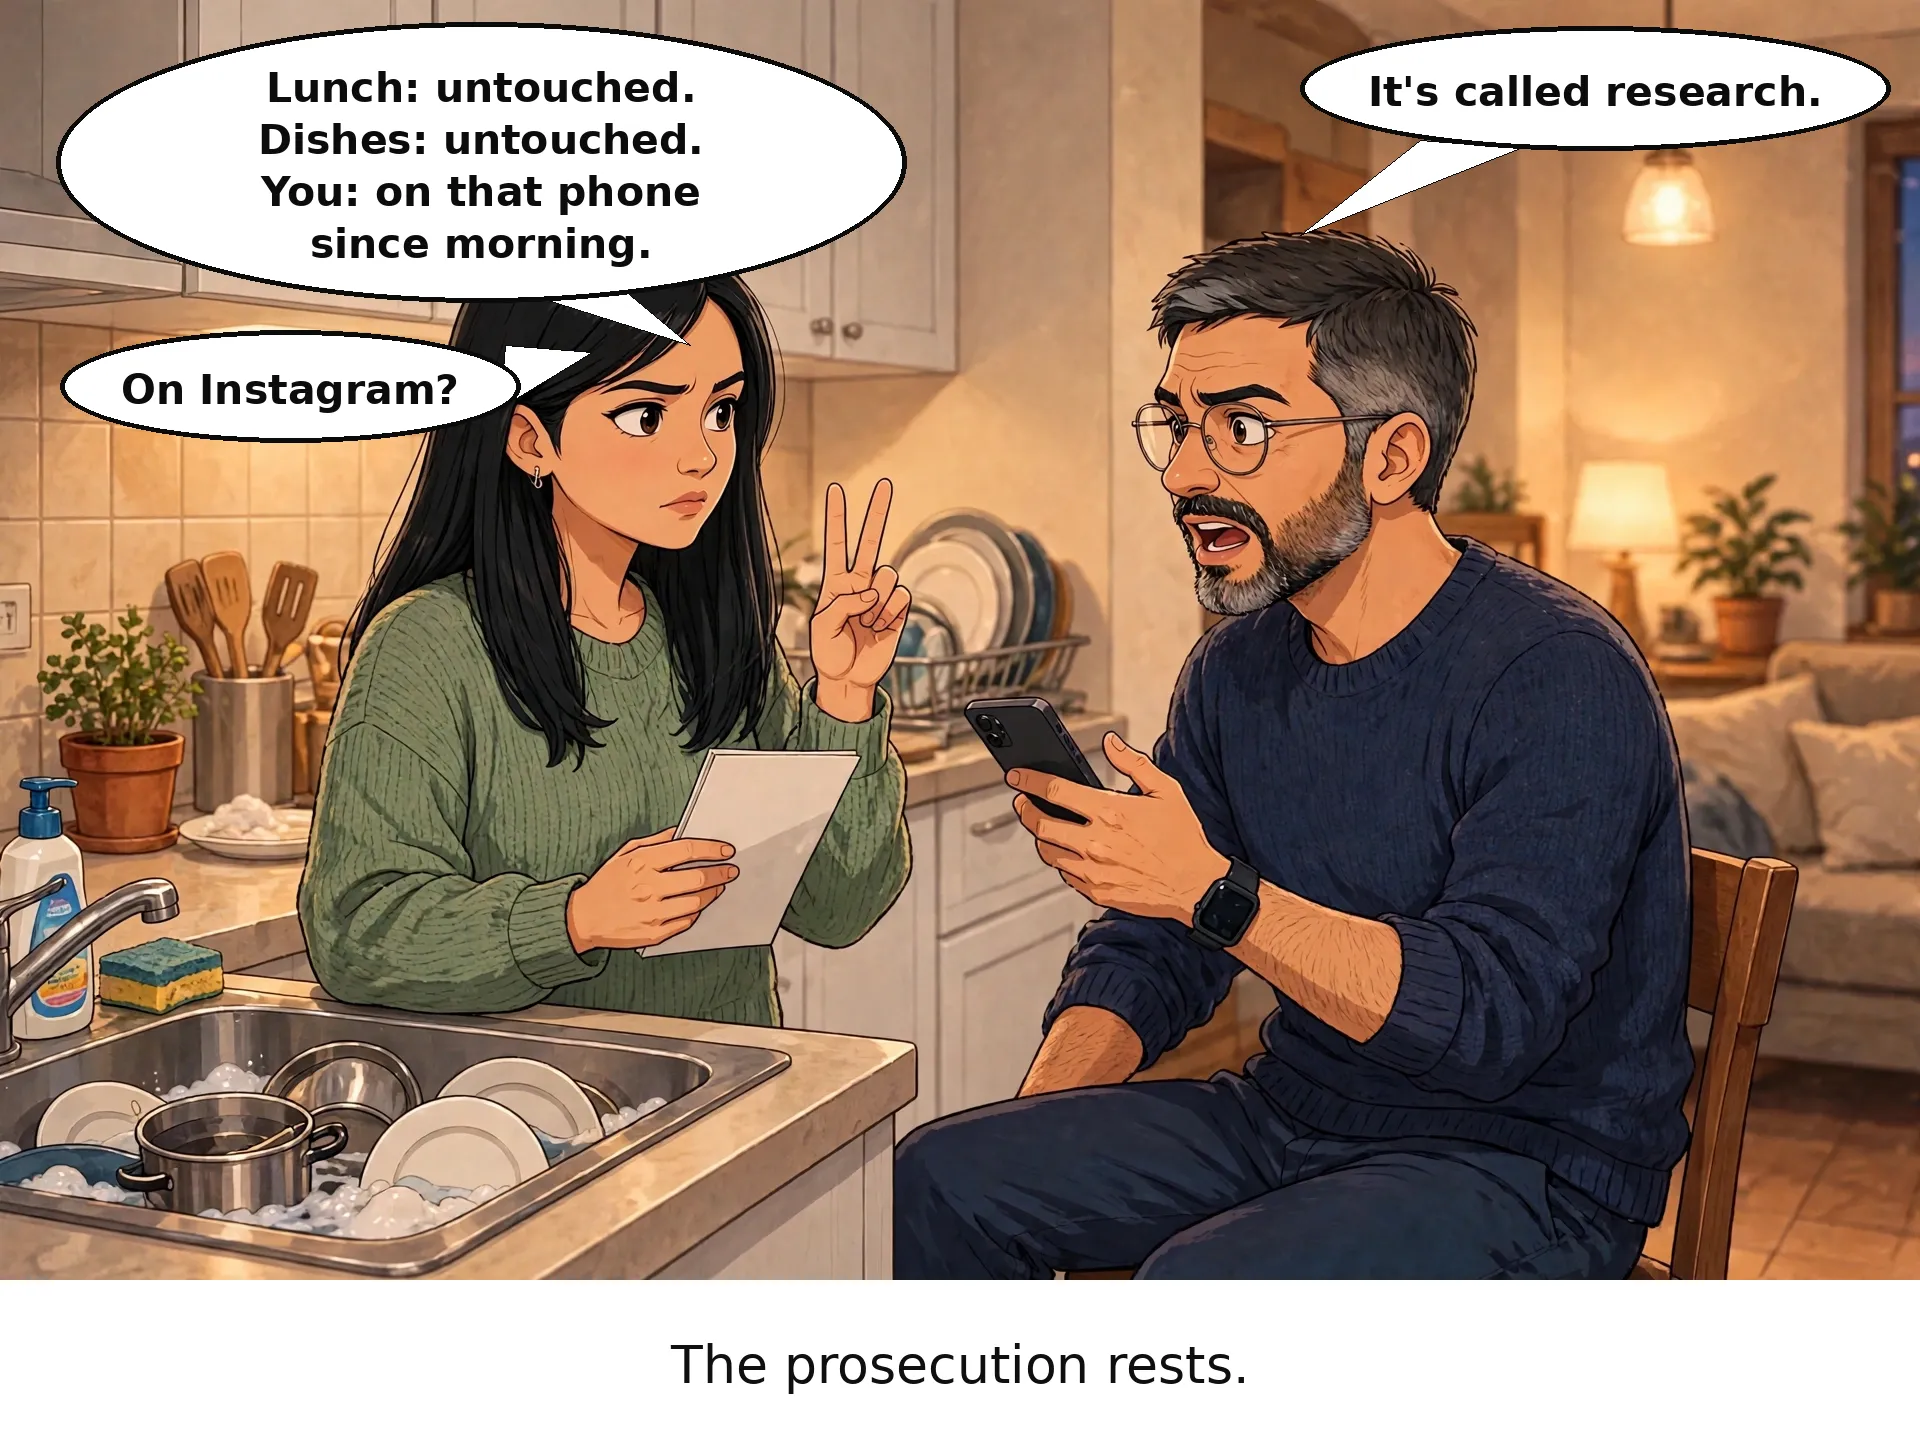
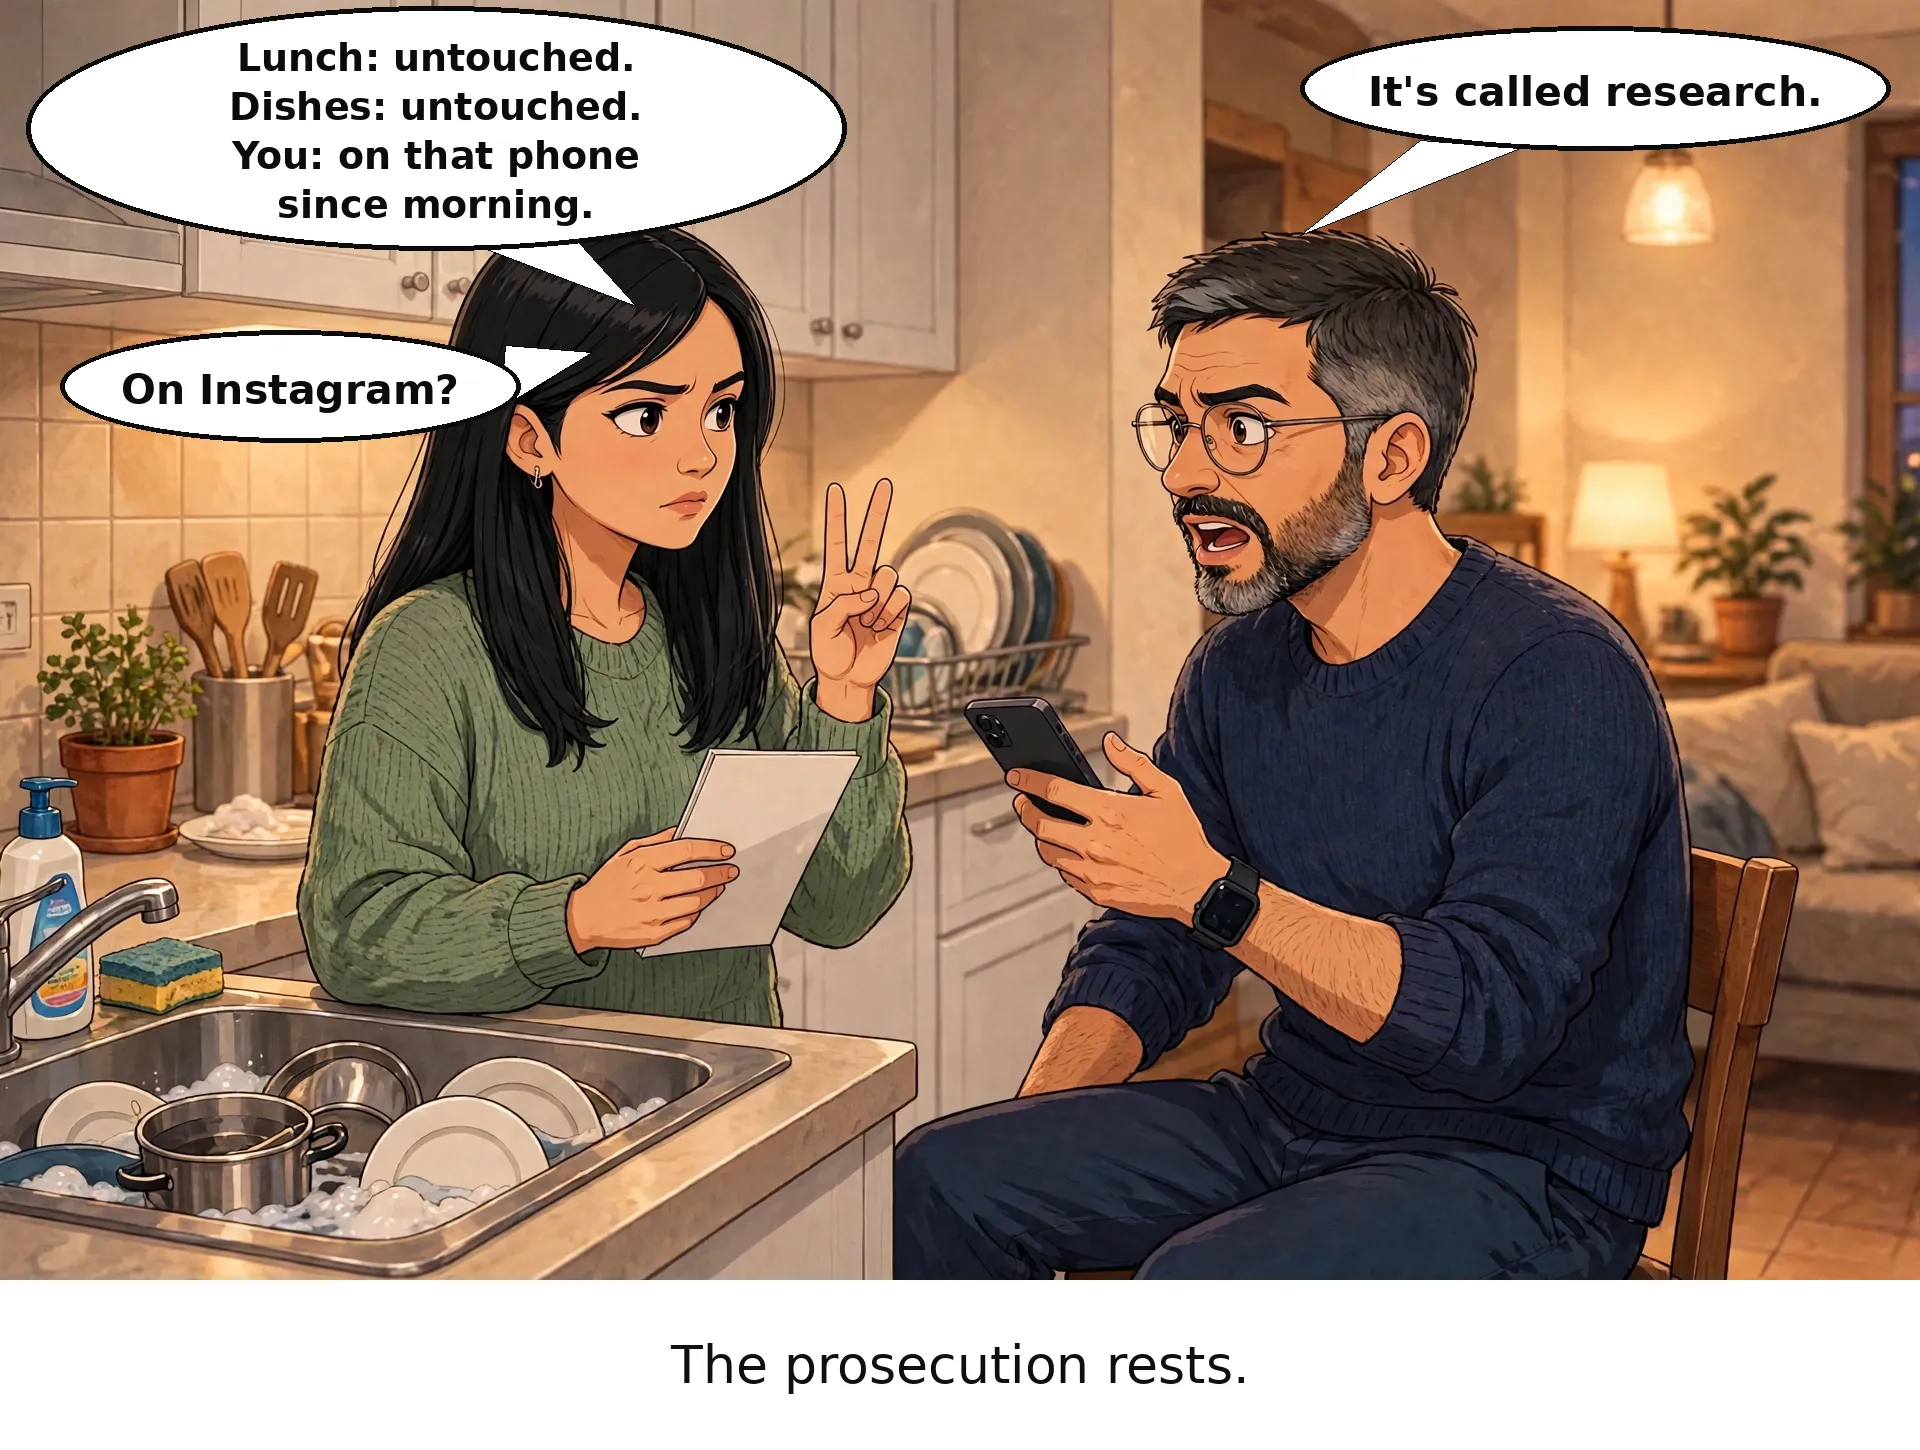
Strip 013 lettering: bubbles off faces + placement rule in LOCK

Changed region(s): [[0.0, 0.0, 0.4688, 0.2483]]

diff --git a/characters/LOCK.md b/characters/LOCK.md
@@ -66,6 +66,11 @@ panels or strips.
 - LETTERING IS A SEPARATE STEP, done by the agent (never the image generator):
   speech bubbles + caption band added in post. This is law — generator lettering
   produced typos ("untuched") and baked-in header lines on 2026-10-21.
+  Placement rule (owner 2026-10-21: "the bubbles are blocking the faces"):
+  bubbles live in negative space only (cabinets, walls, window, counter) and
+  NEVER cover a face — eyes, glasses, nose, mouth stay fully visible. Tails
+  point to the speaker and may touch a hairline or shoulder edge only. Check
+  every lettered panel for face coverage before presenting.
 - Format: vertical panel with a white caption band below (target 1080x1250);
   caption short and understated.
 - QC before presenting: faces identical to the approved strip; extra hands; odd
